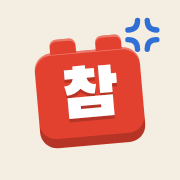
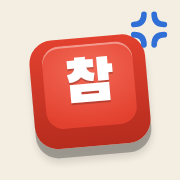
로고를 키보드 키캡으로, 방 카드에 도장·파쇄기·사직서 일러스트 추가, 설명 문구 수정
Claude-Session: https://claude.ai/code/session_01BNZQwYxBcT6hyJYYshMS6o

Changed region(s): [[0.1389, 0.0556, 0.9444, 0.8889]]

diff --git a/index.html b/index.html
@@ -55,35 +55,34 @@ h1,h2,h3,.jua{font-family:'Jua',sans-serif;font-weight:400;margin:0}
 .lobby-head .settings-btn{position:absolute;right:0;top:0}
 .lobby-head h1{margin:0}
 /* ---------- 로고: 오늘도 참았다 ---------- */
-.logo{--w:min(78px,21vw);display:inline-flex;flex-direction:column;align-items:center;gap:2px;position:relative}
+.logo{--w:min(80px,21vw);display:inline-flex;flex-direction:column;align-items:center;gap:2px;position:relative}
 .logo-top{font-family:'Gaegu',cursive;font-weight:700;font-size:min(30px,8.4vw);color:var(--ink);transform:rotate(-5deg) translateX(-28%);
   display:inline-flex;align-items:center;gap:4px;line-height:1;letter-spacing:0}
 .logo-top .dots{color:var(--ink2);letter-spacing:0}
-.logo-bricks{display:flex;gap:min(6px,1.6vw);padding-top:12px}
-.lb{--c:var(--red);position:relative;width:var(--w);height:calc(var(--w)*.9);border-radius:calc(var(--w)*.16);background:var(--c);
-  display:grid;place-items:center;font-family:'Black Han Sans',sans-serif;font-size:calc(var(--w)*.6);color:#fff;line-height:1;
-  text-shadow:0 3px 0 rgba(0,0,0,.22);transform:translateY(var(--dy,0)) rotate(var(--r,0));
-  box-shadow:inset 0 calc(var(--w)*-.09) 0 rgba(0,0,0,.2),inset 0 2px 0 rgba(255,255,255,.3),0 5px 0 rgba(0,0,0,.08)}
-.lb::before,.lb::after{content:"";position:absolute;top:calc(var(--w)*-.12);width:calc(var(--w)*.24);height:calc(var(--w)*.13);
-  border-radius:calc(var(--w)*.06) calc(var(--w)*.06) 0 0;background:var(--c);box-shadow:inset 0 2px 0 rgba(255,255,255,.3)}
-.lb::before{left:16%}.lb::after{right:16%}
-.lb.dark{color:var(--ink);text-shadow:0 3px 0 rgba(255,255,255,.35)}
-.lb .crack{position:absolute;inset:0;width:100%;height:100%;pointer-events:none}
-.lb .chip{position:absolute;right:-7px;bottom:20%;width:calc(var(--w)*.11);height:calc(var(--w)*.09);background:var(--c);border-radius:2px;transform:rotate(25deg);
-  box-shadow:-5px 10px 0 -1px var(--c)}
-.anger{position:absolute;right:calc(var(--w)*-.38);top:2px;width:calc(var(--w)*.46);height:calc(var(--w)*.46);animation:angry 1.1s ease-in-out infinite}
-.logo.big{--w:min(96px,25vw)}
+.logo-keys{display:flex;gap:min(8px,2vw);padding-top:8px}
+.kc{--c:#e3412f;--d:#b52c1e;--t:#f26a57;position:relative;width:var(--w);height:calc(var(--w)*.94);border-radius:calc(var(--w)*.2);
+  background:linear-gradient(180deg,var(--c),var(--d));display:grid;place-items:center;transform:translateY(var(--dy,0)) rotate(var(--r,0));
+  box-shadow:0 calc(var(--w)*.08) 0 rgba(0,0,0,.28),0 calc(var(--w)*.12) 8px rgba(0,0,0,.12)}
+.kc .top{position:absolute;left:11%;right:11%;top:6%;bottom:18%;border-radius:calc(var(--w)*.15);
+  background:radial-gradient(120% 95% at 50% 30%,var(--t),var(--c) 72%);box-shadow:inset 0 2px 0 rgba(255,255,255,.4),inset 0 -2px 0 rgba(0,0,0,.08)}
+.kc b{position:relative;font-family:'Black Han Sans',sans-serif;font-weight:400;font-size:calc(var(--w)*.5);color:#fff;line-height:1;margin-top:-12%;text-shadow:0 2px 0 rgba(0,0,0,.2)}
+.kc.y{--c:#f6c026;--d:#cf9a0c;--t:#ffdc63}.kc.y b{color:var(--ink);text-shadow:0 2px 0 rgba(255,255,255,.4)}
+.kc.b{--c:#2f6fd6;--d:#1f4fa6;--t:#5a90ec}
+.kc .crack{position:absolute;inset:0;width:100%;height:100%;pointer-events:none}
+.anger{position:absolute;right:calc(var(--w)*-.4);top:-8px;width:calc(var(--w)*.46);height:calc(var(--w)*.46);animation:angry 1.1s ease-in-out infinite}
 @keyframes angry{0%,100%{transform:scale(1) rotate(0)}50%{transform:scale(1.18) rotate(8deg)}}
 .lobby-head p{margin:6px 0 0;color:var(--ink2);font-size:15px}
 .today-chip{align-self:center;background:#fff;border-radius:999px;padding:8px 14px;font-size:14px;box-shadow:inset 0 -3px 0 #e6dccb;display:flex;gap:8px;align-items:center}
 .today-chip b{font-family:'Jua';font-weight:400}
 .dot{width:12px;height:12px;border-radius:4px;display:inline-block}
 .room-list{display:flex;flex-direction:column;gap:22px;margin-top:10px;max-width:520px;width:100%;align-self:center}
-.room-card{display:flex;align-items:center;gap:14px;padding:16px 16px 21px;text-align:left;color:#fff;width:100%;transition:transform .08s}
+.room-card{display:flex;align-items:center;gap:14px;padding:14px 14px 19px;border-radius:22px;text-align:left;color:#fff;width:100%;transition:transform .08s}
 .room-card:active{transform:translateY(3px)}
-.rc-icon{flex:0 0 64px;height:64px;border-radius:14px;background:rgba(255,255,255,.95);display:grid;place-items:center;
-  font-family:'Jua';font-size:20px;box-shadow:inset 0 -4px 0 rgba(0,0,0,.08)}
-.rc-icon.stampy{color:var(--stamp);border:3px double var(--stamp);transform:rotate(-8deg);background:#fff}
+.rc-icon{flex:0 0 80px;height:80px;border-radius:20px;background:rgba(255,255,255,.96);display:grid;place-items:center;
+  box-shadow:inset 0 -5px 0 rgba(0,0,0,.08)}
+.rc-icon svg{width:70px;height:70px;overflow:visible}
+.room-card:active .rc-icon svg{animation:wiggle .3s}
+@keyframes wiggle{30%{transform:rotate(-6deg) scale(1.05)}70%{transform:rotate(5deg)}}
 .rc-text h2{font-size:22px}
 .rc-text p{margin:3px 0 6px;font-size:14px;opacity:.95}
 .rc-how{display:inline-block;font-size:12px;background:rgba(0,0,0,.18);border-radius:999px;padding:3px 9px}
@@ -344,20 +343,40 @@ h1,h2,h3,.jua{font-family:'Jua',sans-serif;font-weight:400;margin:0}
   </header>
   <div class="today-chip" id="todayChip"></div>
   <div class="room-list">
-    <button class="room-card brick" data-room="reject" style="--c:var(--red)">
-      <div class="rc-icon stampy">반려</div>
+    <button class="room-card brick nostud" data-room="reject" style="--c:var(--red)">
+      <div class="rc-icon"><svg viewBox="0 0 80 80" aria-hidden="true">
+          <g transform="rotate(-9 40 60)"><rect x="13" y="47" width="54" height="25" rx="5" fill="none" stroke="#d8262a" stroke-width="3.2"/>
+            <text x="40" y="66.5" text-anchor="middle" font-family="Jua" font-size="16" letter-spacing="4" fill="#d8262a">반려</text></g>
+          <circle cx="16" cy="44" r="2.2" fill="#d8262a"/><circle cx="68" cy="50" r="1.8" fill="#d8262a"/>
+          <g transform="rotate(14 48 24)"><ellipse cx="48" cy="6" rx="9.5" ry="7" fill="#8a5a36"/><ellipse cx="45" cy="4" rx="3.5" ry="2" fill="#b58258"/>
+            <rect x="44" y="11" width="8" height="12" rx="2" fill="#a86e43"/><rect x="33" y="22" width="30" height="14" rx="5" fill="#c4875a"/>
+            <rect x="33" y="31" width="30" height="5" rx="2" fill="#a86e43"/><rect x="32" y="35" width="32" height="6" rx="2" fill="#d8262a"/></g>
+          <path d="M70 18l6-4M72 28h7M66 10l3-6" stroke="#f2b8b0" stroke-width="2.6" stroke-linecap="round"/></svg></div>
       <div class="rc-text"><h2>반려의 방</h2><p>상사가 올린 결재, 전부 반려!</p><span class="rc-how">📳 도장 찍듯 쾅! 내려찍기</span></div>
     </button>
-    <button class="room-card brick" data-room="shred" style="--c:var(--blue)">
-      <div class="rc-icon" style="color:var(--blue)">파쇄</div>
-      <div class="rc-text"><h2>업무 파쇄기</h2><p>쏟아지는 업무를 종이 국수로</p><span class="rc-how">📳 마구 흔들어 터보 가동</span></div>
+    <button class="room-card brick nostud" data-room="shred" style="--c:var(--blue)">
+      <div class="rc-icon"><svg viewBox="0 0 80 80" aria-hidden="true">
+          <g transform="rotate(-7 40 16)"><rect x="23" y="1" width="34" height="27" rx="2.5" fill="#fff" stroke="#cfc4b2" stroke-width="1.6"/>
+            <rect x="28" y="7" width="14" height="4" rx="2" fill="#e3412f"/><rect x="28" y="14" width="24" height="2.6" rx="1.3" fill="#ddd"/><rect x="28" y="19" width="18" height="2.6" rx="1.3" fill="#ddd"/></g>
+          <rect x="8" y="24" width="64" height="26" rx="7" fill="#2f6fd6"/><rect x="8" y="43" width="64" height="7" rx="3.5" fill="#1f4fa6"/>
+          <rect x="16" y="21.5" width="48" height="5.5" rx="2.75" fill="#1a1d29"/>
+          <circle cx="58" cy="34" r="3.2" fill="#7dff9a"/><circle cx="49" cy="34" r="3.2" fill="#ffd23f"/>
+          <g stroke-linecap="round" stroke-width="3.4"><path d="M19 53v14" stroke="#fff"/><path d="M26 53q2 8-1 19" stroke="#fff3b0"/><path d="M33 53v11" stroke="#fff"/>
+            <path d="M40 53q-2 9 1 21" stroke="#ffd6e0"/><path d="M47 53v15" stroke="#fff"/><path d="M54 53q2 6 0 12" stroke="#cfe2ff"/><path d="M61 53v17" stroke="#fff"/></g>
+          <g stroke="#c9d6ec" stroke-width="2" stroke-linecap="round"><path d="M3 29l3 2M2 38h4M77 29l-3 2M78 38h-4"/></g></svg></div>
+      <div class="rc-text"><h2>업무 파쇄기</h2><p>쏟아지는 업무를 모두 갈갈갈!</p><span class="rc-how">📳 마구 흔들어 터보 가동</span></div>
     </button>
-    <button class="room-card brick" data-room="resign" style="--c:var(--purple)">
-      <div class="rc-icon" style="color:var(--purple)">사직</div>
-      <div class="rc-text"><h2>사직서 던지기</h2><p>품어둔 사직서, 오늘은 던진다</p><span class="rc-how">📳 공 던지듯 휙!</span></div>
+    <button class="room-card brick nostud" data-room="resign" style="--c:var(--purple)">
+      <div class="rc-icon"><svg viewBox="0 0 80 80" aria-hidden="true">
+          <path d="M3 34h13M1 45h15M6 56h9" stroke="#cbbcf2" stroke-width="3.2" stroke-linecap="round"/>
+          <g transform="rotate(-13 47 41)"><rect x="25" y="8" width="44" height="66" rx="4" fill="#fff" stroke="#cfc4b2" stroke-width="1.6"/>
+            <path d="M25.5 12L47 27L68.5 12" fill="none" stroke="#e6dccb" stroke-width="2.2" stroke-linejoin="round"/>
+            <g font-family="Black Han Sans" font-size="13" text-anchor="middle" fill="#2b2a33"><text x="47" y="42">사</text><text x="47" y="55">직</text><text x="47" y="68">서</text></g>
+            <circle cx="61" cy="66" r="4.2" fill="#d8262a"/></g></svg></div>
+      <div class="rc-text"><h2>사직서 던지기</h2><p>품어왔던 사직서, 오늘은 던진다!</p><span class="rc-how">📳 공 던지듯 휙!</span></div>
     </button>
   </div>
-  <button class="btn brick" id="calBtn" style="--c:var(--green)">📅 스트레스 캘린더</button>
+  <button class="btn brick nostud" id="calBtn" style="--c:var(--green)">📅 스트레스 캘린더</button>
   <p class="foot">상사 이름과 기록은 이 폰에만 저장돼요.</p>
 </section>
 
@@ -431,12 +450,11 @@ const DEBUG_DUR = Number(params.get('t')) || 0; // ?t=8 → 8초 테스트
 /* ================= 로고 ================= */
 const LOGO_HTML = `<span class="logo" role="img" aria-label="오늘도 참았다">
   <span class="logo-top" aria-hidden="true">오늘도<span class="dots">…</span></span>
-  <span class="logo-bricks" aria-hidden="true">
-    <span class="lb" style="--c:var(--red);--r:-5deg">참</span>
-    <span class="lb dark" style="--c:var(--yellow);--r:3deg;--dy:-7px">았</span>
-    <span class="lb" style="--c:var(--blue);--r:-2deg">다
-      <svg class="crack" viewBox="0 0 100 90" fill="none" stroke="rgba(15,25,60,.5)" stroke-width="2.6" stroke-linejoin="round" stroke-linecap="round"><polyline points="100,40 92,47 96,55 88,63 91,72"/><polyline points="96,55 100,58"/><polyline points="0,14 7,20 4,27"/></svg>
-      <i class="chip"></i>
+  <span class="logo-keys" aria-hidden="true">
+    <span class="kc" style="--r:-5deg"><i class="top"></i><b>참</b></span>
+    <span class="kc y" style="--r:3deg;--dy:-6px"><i class="top"></i><b>았</b></span>
+    <span class="kc b" style="--r:-2deg"><i class="top"></i><b>다</b>
+      <svg class="crack" viewBox="0 0 100 94" fill="none" stroke="rgba(10,20,60,.55)" stroke-width="2.6" stroke-linejoin="round" stroke-linecap="round"><polyline points="98,30 90,38 95,47 87,55 91,66"/><polyline points="95,47 100,50"/></svg>
       <svg class="anger" viewBox="0 0 40 40" fill="none" stroke="#e3412f" stroke-width="5.5" stroke-linecap="round"><path d="M5 15Q15 15 15 5"/><path d="M25 5Q25 15 35 15"/><path d="M35 25Q25 25 25 35"/><path d="M15 35Q15 25 5 25"/></svg>
     </span>
   </span></span>`;
@@ -842,7 +860,7 @@ const Shred = {
     const r = el('div', 'r2');
     r.innerHTML = `<span class="pill pile-badge">쌓인 업무 <b>0</b></span>
       <div class="inbox"></div>
-      <div class="shredder brick"><div class="slot"></div><div class="label">업무 파쇄기<small>SHRED-3000</small></div><div class="leds">${'<i></i>'.repeat(5)}</div><div class="turbo">TURBO!</div></div>
+      <div class="shredder brick nostud"><div class="slot"></div><div class="label">업무 파쇄기<small>SHRED-3000</small></div><div class="leds">${'<i></i>'.repeat(5)}</div><div class="turbo">TURBO!</div></div>
       <div class="bin"><div class="bin-fill"></div></div>`;
     st.appendChild(r);
     this.root = r; this.inbox = $('.inbox', r); this.shredder = $('.shredder', r); this.leds = $$('.leds i', r); this.fill = $('.bin-fill', r);
